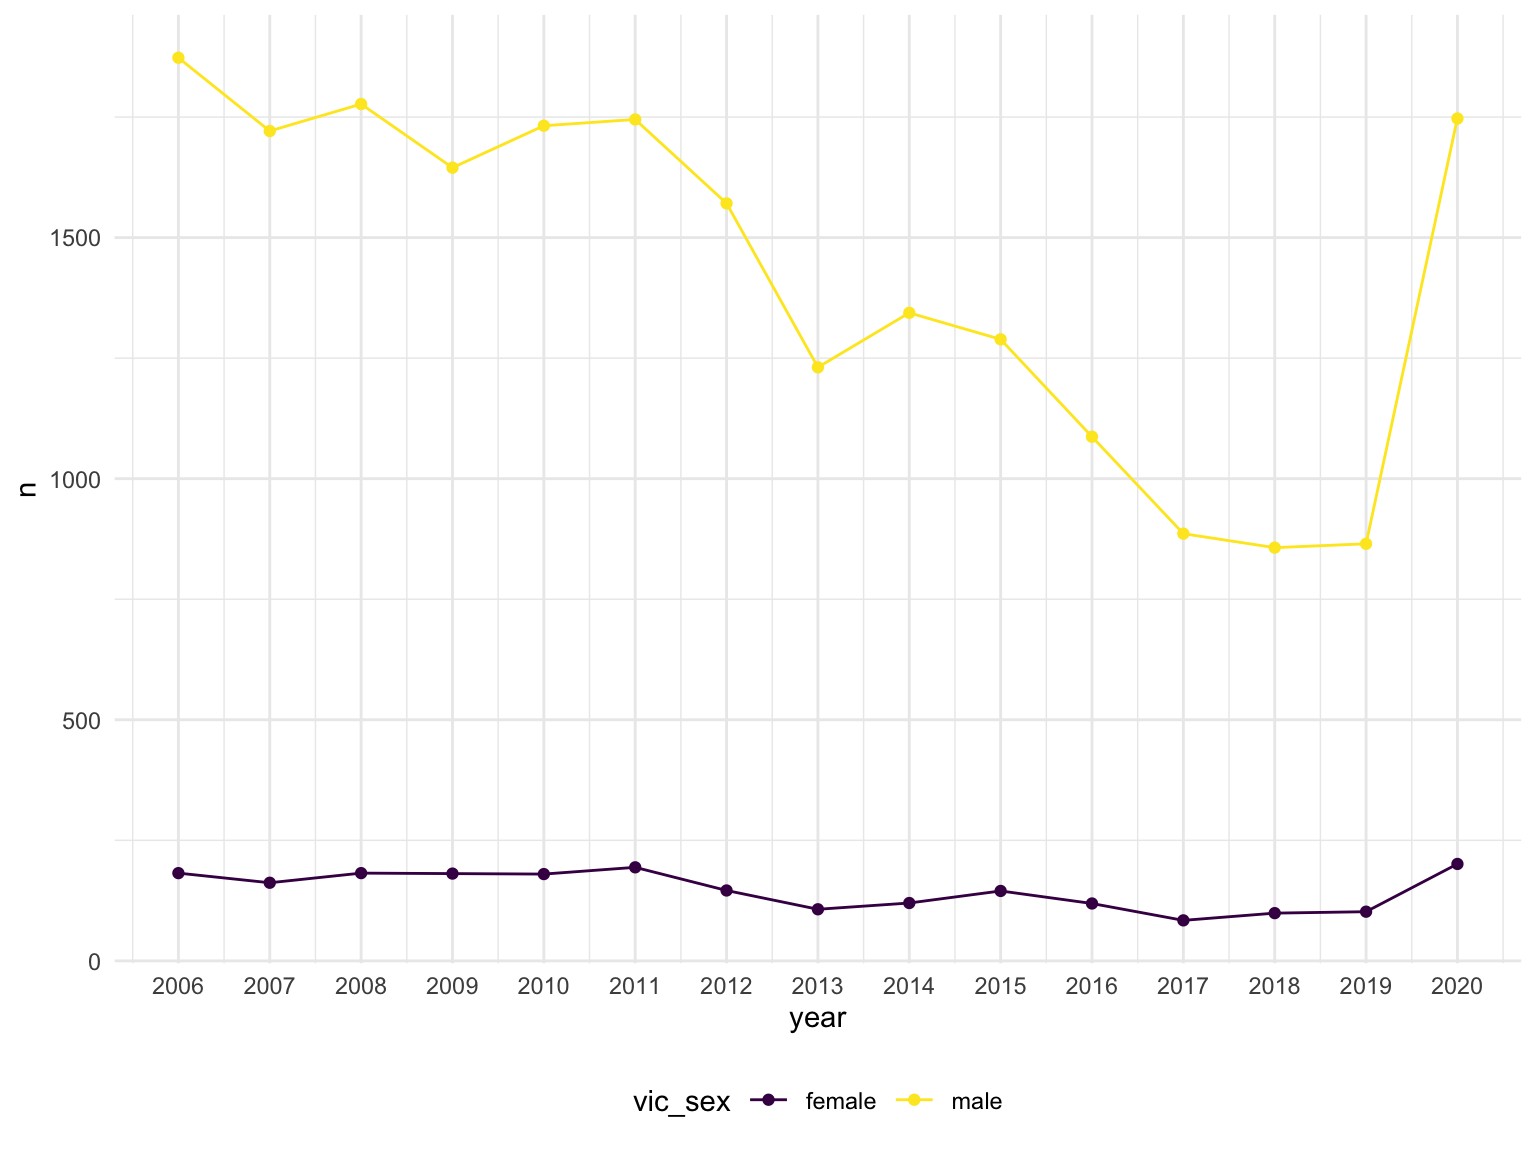
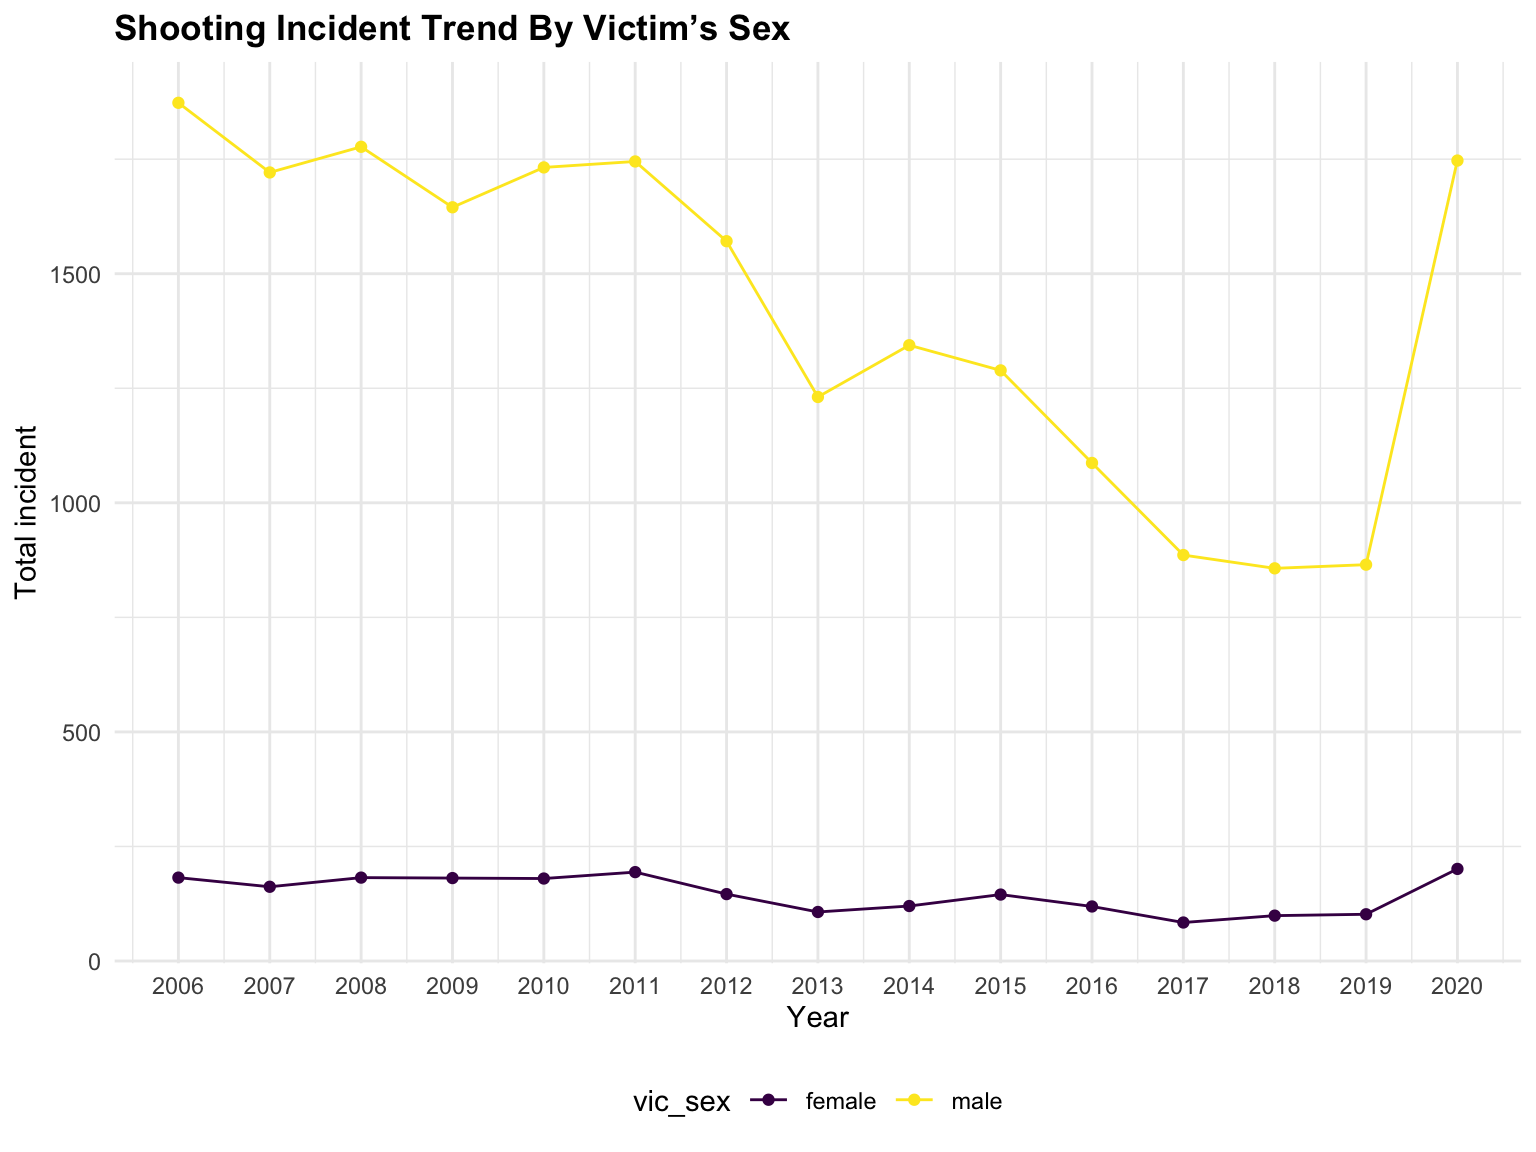
change the graph back to what i was done!

diff --git a/analysis.html b/analysis.html
@@ -382,17 +382,6 @@ div.tocify {
 </div>
 <div id="sex" class="section level2">
 <h2>Sex</h2>
-<pre><code>## $x
-## [1] &quot;Year&quot;
-## 
-## $y
-## [1] &quot;Total incident&quot;
-## 
-## $title
-## [1] &quot;Shooting Incident Trend By Victim’s Sex&quot;
-## 
-## attr(,&quot;class&quot;)
-## [1] &quot;labels&quot;</code></pre>
 <p><img src="analysis_files/figure-html/unnamed-chunk-6-1.png" width="90%" /></p>
 <p><strong>Male</strong> victims are the majority and female victims have a very small proportion among the total victims in nyc across 2006 to 2020.</p>
 </div>
